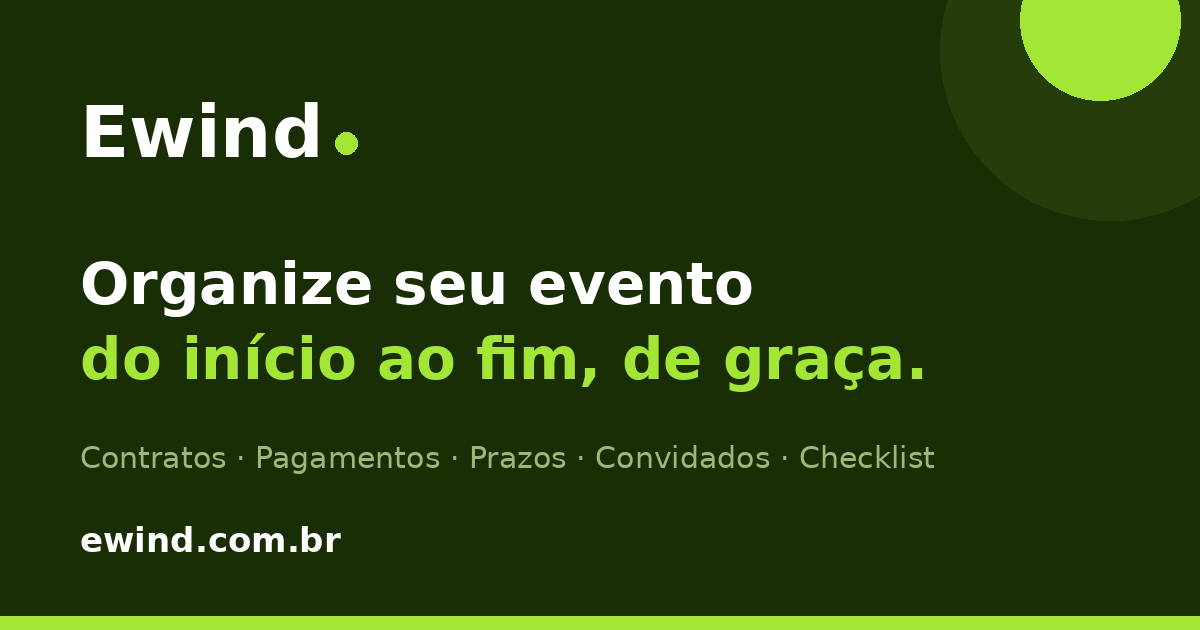
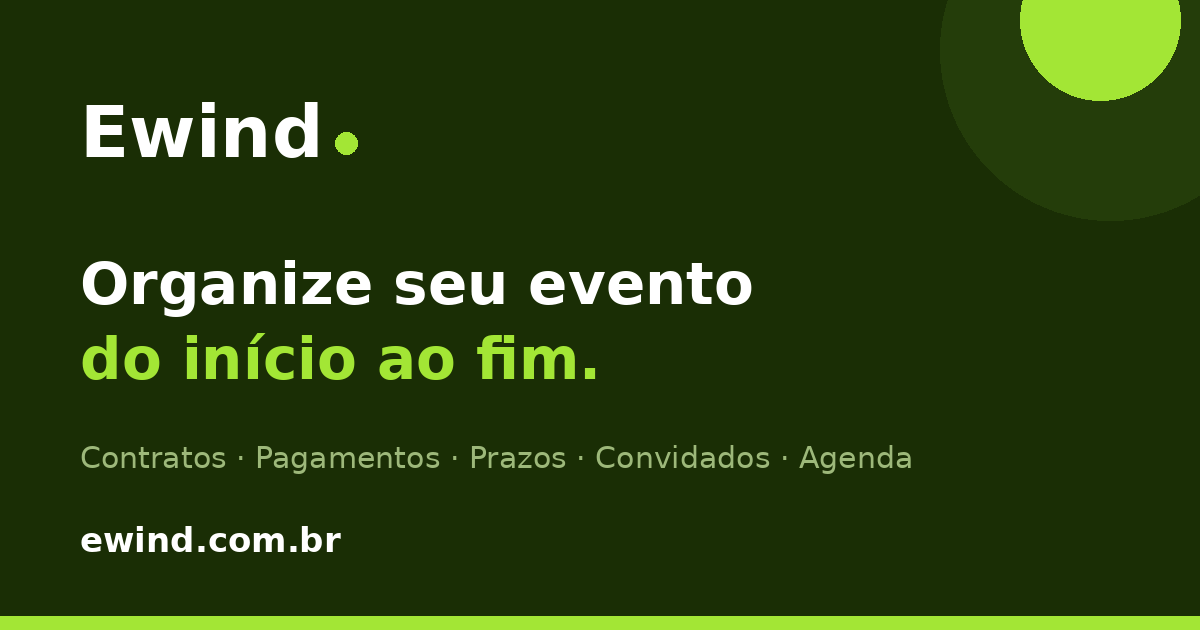
FIx: textos

Changed region(s): [[0.5242, 0.5127, 0.7708, 0.6333], [0.6475, 0.6937, 0.7708, 0.754]]

diff --git a/src/pages/HomePageNew.tsx b/src/pages/HomePageNew.tsx
@@ -94,7 +94,7 @@ export default function HomePage({ goToPage }: Props) {
           </div>
           <h1 style={{ fontSize: 52, fontWeight: 900, color: '#fff', lineHeight: 1.1, marginBottom: 16, maxWidth: 820, margin: '0 auto 16px', textShadow: '0 2px 20px rgba(0,0,0,0.4)' }}>
             Organize seu evento do início ao fim,{' '}
-            <span style={{ color: '#a3e635' }}>de graça</span>
+            <span style={{ color: '#a3e635' }}>sem perder nada</span>
           </h1>
           <p style={{ fontSize: 17, color: 'rgba(255,255,255,0.9)', maxWidth: 600, margin: '0 auto 36px', lineHeight: 1.7, textShadow: '0 1px 8px rgba(0,0,0,0.5)' }}>
             Centralize contratos, pagamentos, prazos e convidados em um só lugar. O Ewind é a ferramenta gratuita para quem está organizando um casamento, aniversário ou qualquer evento — sem planilhas espalhadas.
@@ -157,7 +157,7 @@ className="hero-arrow hero-arrow-right"
       <section className="section">
         <h2 className="sec-title">Como o Ewind organiza seu evento</h2>
         <p style={{ textAlign: 'center', fontSize: 15, color: '#6b7280', maxWidth: 560, margin: '0 auto 36px', lineHeight: 1.6 }}>
-          Tudo o que você precisa para não perder nenhum prazo, contrato ou pagamento — de graça, sem planilha.
+          Tudo o que você precisa para não perder nenhum prazo, contrato ou pagamento, sem planilha.
         </p>
         <div style={{ maxWidth: 1000, margin: '0 auto', display: 'grid', gridTemplateColumns: 'repeat(auto-fit, minmax(260px, 1fr))', gap: 20 }}>
           {[
@@ -180,23 +180,23 @@ className="hero-arrow hero-arrow-right"
         </div>
       </section>
 
-      {/* MARKETPLACE — EM BREVE (única faixa) */}
+      {/* MARKETPLACE — EARLY ADOPTER (única faixa) */}
       <section className="section" style={{ background: '#f9fafb', borderTop: '1px solid #e8e8e8', borderBottom: '1px solid #e8e8e8' }}>
         <div style={{ maxWidth: 900, margin: '0 auto', textAlign: 'center' }}>
-          <span style={{ display: 'inline-block', fontSize: 11, fontWeight: 800, letterSpacing: 0.5, color: '#3f6212', background: '#ecfccb', padding: '4px 12px', borderRadius: 100, marginBottom: 14 }}>EM BREVE</span>
+          <span style={{ display: 'inline-block', fontSize: 11, fontWeight: 800, letterSpacing: 0.5, color: '#1a2e05', background: '#a3e635', padding: '4px 12px', borderRadius: 100, marginBottom: 14 }}>EARLY ADOPTER · CURITIBA</span>
           <h2 className="sec-title" style={{ marginBottom: 12 }}>Encontre espaços e fornecedores na plataforma</h2>
           <p style={{ fontSize: 15, color: '#6b7280', maxWidth: 620, margin: '0 auto 8px', lineHeight: 1.7 }}>
-            Estamos construindo um marketplace onde você vai comparar chácaras, salões, buffets, fotógrafos e muito mais — e solicitar orçamentos sem sair do Ewind, já conectado à organização do seu evento.
+            Compare chácaras, salões, buffets, fotógrafos e muito mais, e solicite orçamentos sem sair do Ewind, já conectado à organização do seu evento. Estamos no período early adopter: tudo gratuito, começando por Curitiba.
           </p>
           <p style={{ fontSize: 13, color: '#9ca3af' }}>
-            Enquanto isso, a ferramenta de gestão já está 100% disponível e gratuita.
+            Para organizadores, a plataforma é gratuita hoje e sempre. Para anunciantes, gratuita durante todo o período early adopter, com no mínimo 6 meses.
           </p>
         </div>
       </section>
 
       {/* CATEGORIAS */}
       <section className="section">
-        <h2 className="sec-title">Categorias que estarão disponíveis</h2>
+        <h2 className="sec-title">Explore por categoria</h2>
         <div style={{ display: 'grid', gridTemplateColumns: 'repeat(7, 1fr)', gap: 10, overflowX: 'hidden' }}>
           {CATEGORIES.map(c => (
             <div key={c.name} onClick={() => goToPage('listing')}
@@ -247,7 +247,7 @@ className="hero-arrow hero-arrow-right"
             <div style={{ fontSize: 42, marginBottom: 14 }}>🎪</div>
             <h3 style={{ fontSize: 20, fontWeight: 800, marginBottom: 8, color: '#1a2e05' }}>Seja um dos primeiros anunciantes!</h3>
             <p style={{ fontSize: 14, color: '#365314', marginBottom: 20, lineHeight: 1.6, maxWidth: 460, margin: '0 auto 20px' }}>
-              O marketplace está em construção. Cadastre seu espaço agora, gerencie seus contratos na plataforma e garanta prioridade quando os orçamentos começarem a fluir.
+              Anuncie gratuitamente durante o early adopter, gerencie seus contratos e sua agenda na plataforma, e garanta condições exclusivas quando as assinaturas forem ativadas.
             </p>
             <button className="btn-primary" style={{ padding: '12px 28px', fontSize: 15 }} onClick={() => goToPage('signup')}>
               Cadastrar meu espaço gratuitamente
@@ -302,7 +302,7 @@ className="hero-arrow hero-arrow-right"
             <div style={{ fontSize: 38, marginBottom: 12 }}>🛠</div>
             <h3 style={{ fontSize: 18, fontWeight: 800, marginBottom: 8, color: '#1a2e05' }}>Seja um dos primeiros fornecedores!</h3>
             <p style={{ fontSize: 13, color: '#365314', marginBottom: 18, lineHeight: 1.6, maxWidth: 420, margin: '0 auto 18px' }}>
-              Fotógrafos, DJs, decoradores e confeiteiros — cadastre seu serviço, gerencie seus contratos e seja um dos primeiros quando o marketplace abrir.
+              Fotógrafos, DJs, decoradores e confeiteiros: cadastre seu serviço gratuitamente no early adopter, gerencie seus contratos e seja encontrado por quem organiza.
             </p>
             <button className="btn-primary" style={{ padding: '11px 24px', fontSize: 14 }} onClick={() => goToPage('signup')}>
               Cadastrar meu serviço gratuitamente
@@ -317,7 +317,7 @@ className="hero-arrow hero-arrow-right"
           <div>
             <div className="cta-title">Tem um espaço para eventos?</div>
             <div className="cta-desc">
-              Em breve, anuncie seu espaço no marketplace do Ewind e gerencie seus próprios contratos, pagamentos e prazos na mesma plataforma. Cadastre-se para garantir prioridade no lançamento.
+              Anuncie seu espaço gratuitamente durante o período early adopter e gerencie seus contratos, pagamentos e prazos na mesma plataforma. Quem entra agora mantém condições exclusivas quando as assinaturas forem ativadas.
             </div>
           </div>
           <button className="btn-primary" style={{ whiteSpace: 'nowrap' }} onClick={() => goToPage('signup')}>
@@ -336,7 +336,7 @@ className="hero-arrow hero-arrow-right"
                 É fornecedor de eventos? Anuncie e gerencie seus contratos no mesmo lugar
               </div>
               <div style={{ fontSize: 14, color: 'rgba(255,255,255,0.75)', maxWidth: 540, lineHeight: 1.7 }}>
-                Em breve você poderá exibir seu portfólio no marketplace do Ewind <strong>e</strong> usar as mesmas ferramentas de gestão de contratos, pagamentos e prazos que os organizadores já usam — tudo num só painel. Cadastre-se para ser avisado no lançamento.
+                Exiba seu portfólio no marketplace do Ewind <strong>e</strong> use as mesmas ferramentas de gestão de contratos, pagamentos e prazos que os organizadores já usam, tudo num só painel. Gratuito durante o early adopter, começando por Curitiba.
               </div>
             </div>
           </div>

diff --git a/index.html b/index.html
@@ -6,14 +6,14 @@
     <link rel="apple-touch-icon" href="/favicon.png" />
     <meta name="viewport" content="width=device-width, initial-scale=1.0" />
 
-    <title>Ewind — Organize seu evento do início ao fim, de graça</title>
+    <title>Ewind — Organize seu evento do início ao fim, sem planilhas</title>
     <meta name="description" content="Centralize contratos, pagamentos, prazos, convidados e checklist do seu evento em um só lugar. Ferramenta gratuita para organizar casamentos, aniversários e eventos corporativos." />
 
     <!-- Open Graph (WhatsApp, LinkedIn, Facebook) -->
     <meta property="og:type" content="website" />
     <meta property="og:url" content="https://ewind.com.br/" />
     <meta property="og:site_name" content="Ewind" />
-    <meta property="og:title" content="Ewind — Organize seu evento do início ao fim, de graça" />
+    <meta property="og:title" content="Ewind — Organize seu evento do início ao fim, sem planilhas" />
     <meta property="og:description" content="Contratos, pagamentos, prazos, convidados e checklist em um só lugar. Grátis para quem organiza eventos." />
     <meta property="og:image" content="https://ewind.com.br/og-image.png" />
     <meta property="og:image:width" content="1200" />
@@ -22,7 +22,7 @@
 
     <!-- Twitter/X -->
     <meta name="twitter:card" content="summary_large_image" />
-    <meta name="twitter:title" content="Ewind — Organize seu evento do início ao fim, de graça" />
+    <meta name="twitter:title" content="Ewind — Organize seu evento do início ao fim, sem planilhas" />
     <meta name="twitter:description" content="Contratos, pagamentos, prazos, convidados e checklist em um só lugar. Grátis para quem organiza eventos." />
     <meta name="twitter:image" content="https://ewind.com.br/og-image.png" />
 
